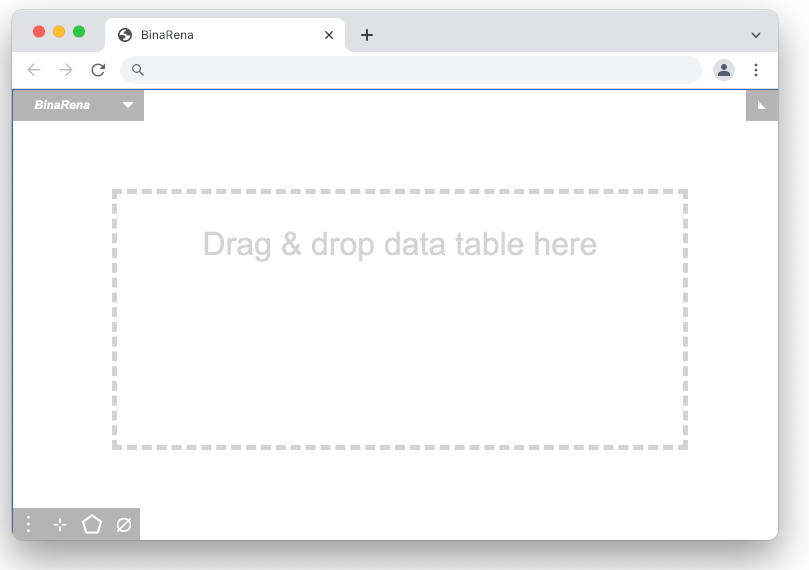
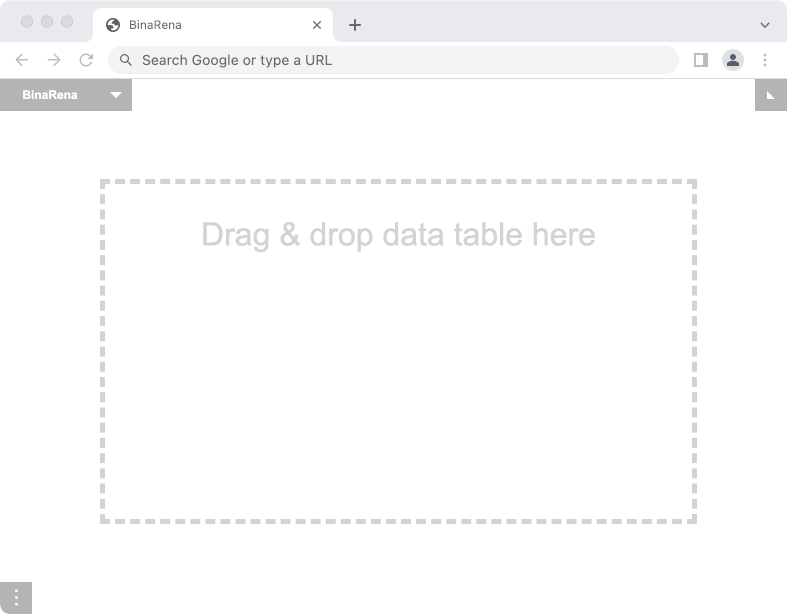
worked on documentation

Changed region(s): [[0.0, 0.0, 1.0, 1.0]]

diff --git a/README.md b/README.md
@@ -16,11 +16,11 @@ Check out this [live demo](https://qiyunlab.github.io/binarena/demo.html). It is
 
 ## Contents
 
-- [Installation](#noinstallation) | [main interface](#main-interface) | [system requirements](#system-requirements) | [mouse and keyboard shortcuts](#mouse-and-keyboard-shortcuts)
-- [Input files](#input-files): [data table](#data-table) | [table view](#table-view) | [special columns](#special-columns) | [additional data](#additional-data)
-- [Display items](#display-items): [legends and data scaling](#legends-and-data-scaling) | [data transformation](#data-transformation) | [color coding](#color-coding) | [image export](#image-export)
-- [Contig selection](#contig-selection) | [masking](#contig-masking) | [highlighting](#contig-highlighting) | [summary](#contig-summary) | [search](#contig-searching) | [mini plot](#mini-plot)
-- [Binning plan](#binning-plan) | [table of bins](#table-of-bins) | [from selection to bin](#from-selection-to-bin)
+- [Installation](#noinstallation) | [main interface](#main-interface) | [widget buttons](#widget-buttons) | [mouse and keyboard shortcuts](#mouse-and-keyboard-shortcuts)
+- [**Data**](#input-data): [data table](#data-table) | [data types](#data-types) | [special columns](#special-columns) | [table view](#table-view)
+- [**Plot**](#display-items): [auto-assign](#automatic-assignment) | [legends & scaling](#legends-and-data-scaling) | [transformation](#data-transformation) | [coloring](#color-coding) | [image export](#image-export)
+- **Contig**: [selection](#contig-selection) | [masking](#contig-masking) | [highlighting](#contig-highlighting) | [summary](#contig-summary) | [search](#contig-searching) | [mini plot](#mini-plot)
+- **Binning**: [Binning plan](#binning-plan) | [table of bins](#table-of-bins) | [from selection to bin](#from-selection-to-bin)
 - [Binning confidence evaluation](#binning-confidence-evaluation) | [binning plan comparison](#binning-plan-comparison)
 - [FAQ](#faq) | [contact](#contact)
 
@@ -38,18 +38,25 @@ The main interface of BinaRena is an interactive scatter plot. It focuses on the
 
 Here is the fully expanded main interface of BinaRena.
 
-<img src="docs/img/main.png" width="720">
+<img src="docs/img/main.png" width="840">
 
 Here is the default interface when the program starts.
 
 <img src="docs/img/blank.png" width="405">
 
 
-## System requirements
+## Widget buttons
 
-BinaRena runs in most modern web browsers, including **Chrome**, **Firefox**, **Edge**, and **Safari** (see screenshots below). A typical laptop is sufficient for running BinaRena.
+A few buttons in the bottom left corner trigger operations on the data:
 
-<img src="docs/img/browsers.png" width="720">
+<img src="docs/img/widgets.png" width="192">
+
+- <span>&vellip;</span> (3 dots): Settings window.
+- <span>&#10047;</span> (flower): Export image (PNG or SVG).
+- <span>&#11040;</span> (polygon): Select contigs with a polygon.
+- <span>&empty;</span> (empty set): Mask (hide) selected contigs.
+- <span>&#9673;</span> (solid circle): Highlight selected contigs.
+- <span>&#8889;</span> (cross): Focus on selected contigs.
 
 
 ## Mouse and keyboard shortcuts
@@ -70,63 +77,54 @@ The BinaRena interface is like a [**digital map**](https://www.google.com/maps) 
 - Press `0` to reset the plot view.
 
 
-## Input files
-
-BinaRena operates on one dataset at a time. A dataset is an entire **metagenomic assembly**, i.e., a collection of **contigs** (note: this document does not differentiate contigs, scaffolds, or long reads). The information being handled is the properties of individual contigs.
-
-To load a dataset, simply **drag and drop** the file into the blank program window.
-
+## Input data
 
 ### Data table
 
-The most typical input file format is a **data table** (tab-delimited file, or [TSV](https://en.wikipedia.org/wiki/Tab-separated_values)) that stores properties of contigs (scaffolds) in an assembly. Here is an [example](examples/input.tsv).
+BinaRena works on an entire **metagenomic assembly**, i.e., a collection of **contigs** (note: this document does not differentiate contigs, scaffolds, or long reads). The information being handled is the properties of individual contigs.
 
-<img src="docs/img/excel.png" width="597">
+The input file format is a **data table** (tab-delimited file, or [TSV](https://en.wikipedia.org/wiki/Tab-separated_values)) that stores properties of contigs (scaffolds) in an assembly. Here is an [example](examples/input.tsv).
 
-Each row represents one contig. The first column must be unique contig identifiers. The remaining columns are arbitrary properties (such as length, coverage, GC%, taxonomy, etc.). These fields may be in any of the following four types:
+<img src="docs/img/excel.png" width="796">
 
-- **number**(`n`), **category**(`c`), **feature**(`f`), **description**(`d`)
+Each row represents one contig. The first column must be unique contig identifiers. The remaining columns are arbitrary properties. Empty cells will be treated as **missing** values.
 
-The program will guess column type based on the data. To be safer, you may append a type code to a column name following a pipe (`|`), such as "`genes|n`" and "`plasmid|c`".
+To **load** a dataset, simply **drag and drop** the data file into the blank program window.
 
-In a **feature**-type column, a cell can have multiple comma-separated features, such as "`Firmicutes,Proteobacteria,Cyanobacteria`".
+To **append** additional data to an opened dataset, just drag and drop more files. They will be filtered to match the current contig IDs (first column).
 
-One may assign a **weight** to each category or feature, using a numeric suffix following a colon (`:`), such as "`Ruminococcus:80`", and "`rpoB:1,dnaK:2,16S:5`".
-This weight can represent quantity, proportion, confidence, etc.
+To work on **multiple** datasets simultaneously, just open multiple browser tabs.
 
-Empty cells will be treated as **missing** values.
+### Data types
 
-### Table view
+Once a data table is loaded, BinaRena will prompt you to specify the data types of individual fields (columns):
 
-One can click `Show data` from the context menu to open a window to browse the current dataset. Alternatively, when one or more bins are selected, one can click the <span style="background-color: lightgrey">&#9707;</span> button in the bin table toolbar to browse the data of contigs **within** these bins. Click `Export` to save the data table as a TSV file.
+<img src="docs/img/input.png" width="360">
 
-<img src="docs/img/table.png" width="576">
+Each field may be any of the following four types:
+
+- **numeric**(`n`): Such as length, coverage, GC%, etc. Can be either integers or floating point numbers.
+- **categorical**(`c`): Such as taxonomic groups, external binning plans, etc.
+- **feature set**(`f`): Features associated with each contig, such as genes. Should be written as comma-separated identifiers, such as "`dnaK,rpoB,ftsZ`".
+- **descriptive**(`d`): Arbitrary free text, such as comments.
+
+BinaRena will "guess" the most appropriate data type of each field based on the data. But you should still review, and correct any place where the program isn't smart enough.
+
+One way to avoid manual review every time you open the same dataset, is to append a type code to a field name following a pipe (`|`), such as "`genes|n`" and "`plasmid|c`", in the raw TSV file.
 
 ### Special columns
 
-When a data table is loaded, BinaRena attempts to "guess" the meaning of data columns by their name and type, and displays the most relevant information. Specifically, the following fields and keyword patterns are recognized:
+Two properties are treated specially in BinaRena: **length** (bp) and **coverage** (x) of contigs, as they will be used to calculate bin abundance and to normalize bin summary metrics. They can be specified under the "Sp" column of the data import window ("Len" and  "Cov"). BinaRena attempts to "guess" these two columns from the numeric columns based on their names (see [how](#automatic-assignment)), but you still need to review, and correct if needed.
 
-- **Length (bp)**: `length`, `size`, `len`, `bp`, etc.
-- **Coverage (x)**: `coverage`, `depth`, `cov`, etc.
-- **GC content (%)**: `gc`, `g+c`, `gc%`, `gc-content`, etc.
-- **_X_- (and _y_-axes)** (if available): `x`, `xaxis`, `x1`, `axis1`, `dim1`, `pc1`, `tsne1`, `umap1`, etc.
+It is okay not to have either or both of these two columns in your dataset.
 
-The matching process is case-insensitive. Suffixes after common delimiters (" ", "/", "_", ".") are stripped. For examples, `Length (bp)` and `size_of_scaffold` will be recognized as **length**.
+You can change these assignments later in the "Settings" window. This is useful when you explore a co-assembly with different coverage profiles of individual samples.
 
-It isn't a problem if the program misses a special column (which is very possible). One can always manually choose the most relevant [display items](#display-items).
+### Table view
 
-### Additional data
+During the analysis, one can click `Show data` from the context menu to open a window to browse the current dataset. Alternatively, when one or more bins are selected, one can click the <span>&#9707;</span> button in the bin table toolbar to browse the data of contigs **within** these bins. Click `Export` to save the data table as a TSV file.
 
-When a dataset has been opened, one may append additional data files to it simply by **dragging and dropping** them into the interface. They will be filter to match the current contig IDs (first column) and appended to the right of the current data table.
-
-
-## Special files
-
-BinaRena supports several special file types that are frequently generated in typical metagenomic data analysis workflows.
-
-### Assembly files
-
-An assembly file is a [FASTA](https://en.wikipedia.org/wiki/FASTA_format) format file containing multiple contig sequences. BinaRena can read DNA sequences and calculate **length** and **GC content** of each contig. If this file is generated by [SPAdes](https://cab.spbu.ru/software/spades/) or [MEGAHIT](https://github.com/voutcn/megahit), BinaRena can recognize **coverage** from sequence titles.
+<img src="docs/img/table.png" width="768">
 
 
 ## Display items
@@ -136,6 +134,27 @@ BinaRena is an interactive scatter plot of contigs, with five display items:
 - **x-axis**, **y-axis**, **size** (radius of contig), **opacity** (alpha value), and **color**.
 
 Each display item can be changed and tweaked in the **display panel**. When the user moves the mouse of an item, two button will emerge, one letting the user select a data transformation method, and the other letting the user display a legend.
+
+### Automatic assignment
+
+When a dataset is loaded, BinaRena attempts to make the best guess of appropriate display items based on the names and types of individual fields. Specifically, it will look for these keywords in the column names:
+
+- **_X_-axis** (numeric): `x`, `xaxis`, `x1`, `axis1`, `dim1`, `pc1`, `tsne1`, `umap1`, etc.
+- **_Y_-axis** (numeric): `y`, `yaxis`, `x2`, `axis2`, `dim2`, `pc2`, `tsne2`, `umap2`, etc.
+- **Length (bp)** (numeric): `length`, `size`, `len`, `bp`, etc.
+- **Coverage (x)** (numeric): `coverage`, `depth`, `cov`, etc.
+- **GC content (%)** (numeric): `gc`, `g+c`, `gc%`, `gc-content`, etc.
+- **Taxonomy** (categorical): `phylum`, `class`, `order`, `family`, `genus`, etc.
+
+The matching process is case-insensitive. Suffixes after common delimiters (" ", "/", "_", ".") are stripped. For examples, `Length (bp)` and `size_of_scaffold` will be recognized as **length**.
+
+If all columns are found, BinaRena will render _x_- and _y_-axes in linear scale, length as marker size (radius) in cube root scale (because a sphere's volume is proportional to the cube of radius), coverage as marker opacity in square root scale, and highest taxonomic group as marker color.
+
+If _x_- and/or _y_-axes are not found, the program will render a length by coverage plot.
+
+If none is found, the program will take the first two numeric columns as _x_- and/or _y_-axes.
+
+It's very likely that BinaRena is not smart enough to hit the desired view. You will need to tweak the display items as needed.
 
 ### Legends and data scaling
 
@@ -173,55 +192,57 @@ For **categorical** data, BinaRena automatically identifies and colors the **mos
 
 The plot rendered by BinaRena can be exported as an image file. There are two options for doing this:
 
-1. Press `P` or click the `&#8889;` button to take a screenshot of the current view and save as a [PNG](https://en.wikipedia.org/wiki/Scalable_Vector_Graphics) (portable network graphics) file.
+1. Press `P` or click the <span>&#10047;</span> (flower) button to take a screenshot of the current view and save as a [PNG](https://en.wikipedia.org/wiki/Scalable_Vector_Graphics) (portable network graphics) file.
 
-2. Mouse over the `&#8889;` button and select "SVG" in the expanded menu. This will generate an 
+2. Mouse over the <span>&#10047;</span> button and select "SVG" in the expanded menu. This will generate an 
 [SVG](https://en.wikipedia.org/wiki/Scalable_Vector_Graphics) (scalable vector graphics) file. It is a vector image therefore it can be further edited in vector image editing programs, such as [Inkscape](https://inkscape.org/). Compared with PNG which is a bare screenshot, the SVG image has _x_- and _y_-axes ticked, labeled, and aligned to "nice" tick numbers, and legends (size, opacity and/or color) displayed in the plot. It is suitable for further processing to generate publication-quality figures.
 
 <img src="docs/img/svg.png" width="553">
+
+
 
 ## Contig selection
 
 In the interactive scatter plot, one can simple click circles (**contigs**) to select them. Hold `Shift` and click to select multiple. Click selected ones to unselect them.
 
-A more efficient may is to press `Enter` or click the <span style="background-color: lightgrey">&#11040;</span> button in the corner to enter the **polygon** selection mode.
+A more efficient may is to press `Enter` or click the <span>&#11040;</span> button in the corner to enter the **polygon** selection mode.
 
-<img src="docs/img/widgets.png" width="160">
+<img src="docs/img/widgets.png" width="192">
 
 Then one can click on the plot to draw a polygon to contain contigs of interest. When done, press `Enter` again and these contigs will be selected.
 
-<img src="docs/img/polyogn.png" width="304">
+<img src="docs/img/polygon.png" width="304">
 
 Hold `Shift` when finishing selection will add the contigs to the current selection.
 
 
 ## Contig masking
 
-One can press the `Delete` key or click the <span style="background-color: lightgrey">&empty;</span> button in the corner to **mask** currently selected contigs. These contigs will disappear from the plot. They will also be excluded from subsequent operations (e.g., they cannot be selected, nor can they influence calculation of metrics). This function is useful for cloaking unwanted contigs during binning.
+One can press the `Delete` key or click the <span>&empty;</span> button in the corner to **mask** currently selected contigs. These contigs will disappear from the plot. They will also be excluded from subsequent operations (e.g., they cannot be selected, nor can they influence calculation of metrics). This function is useful for cloaking unwanted contigs during binning.
 
-<img src="docs/img/mask.png" width="279">
+<img src="docs/img/mask.png" width="204">
 
-The masked contigs are not deleted from the dataset. They can be released back to the view by clicking the <span style="background-color: lightgrey">&times;</span> button.
+The masked contigs are not deleted from the dataset. They can be released back to the view by clicking the <span>&times;</span> button.
 
-One can also press `Z` or click the <span style="background-color: lightgrey">&#8617;</span> button to **undo** previous masking operations one by one. The program allows a total of 50 regrets.
+One can also press `Z` or click the <span>&#8617;</span> button to **undo** previous masking operations one by one. The program allows a total of 50 regrets.
 
-- Note that masked contigs will not be immediated deleted from bins. One can click the <span style="background-color: lightgrey">&empty;</span> button in the bin table toolbar to remove masked contigs from all bins.
+- Note that masked contigs will not be immediated deleted from bins. One can click the <span>&empty;</span> button in the bin table toolbar to remove masked contigs from all bins.
 
 
 ## Contig highlighting
 
-One can press the `L` key or click the <span style="background-color: lightgrey">&#9673;</span> button in the corner to **highlight** currently selected contigs. Moreover, one may select one of multiple highlight colors from the menu.
+One can press the `L` key or click the <span>&#9673;</span> button in the corner to **highlight** currently selected contigs. Moreover, one may select one of multiple highlight colors from the menu.
 
 <img src="docs/img/highlight.png" width="350">
 
-The highlight will stay with the contigs no matter how the layout and display items change, until the user click the <span style="background-color: lightgrey">&times;</span> button next to each color to release them.
+The highlight will stay with the contigs no matter how the layout and display items change, until the user click the <span>&times;</span> button next to each color to release them.
 
 Highlighting will not affect binning, search, calculation and operations. It serves as a visual annotation of contigs to make them noticeable to the user.
 
 
 ## Contig focusing
 
-Press the `F` key or click the <span style="background-color: lightgrey">&#9673;</span> button in the corner to **focus** on selected contigs. That is, all but these contigs will be hidden, allowing you to concentrate on them. When you complete working on these contigs, press `F` again and bring back all other contigs.
+Press the `F` key or click the <span>&#8889;</span> (cross) button in the corner to **focus** on selected contigs. That is, all but these contigs will be hidden, allowing you to concentrate on them. When you complete working on these contigs, press `F` again and bring back all other contigs.
 
 
 ## Contig summary
@@ -230,18 +251,18 @@ BinaRena displays a summary of properties of the select contigs in real time to 
 
 <img src="docs/img/info.png" width="330">
 
-When multiple contigs are selected, the displayed value of **numeric** fields is calculated using either **mean** (<span style="background-color: lightgrey; text-decoration: overline;"><i>x</i></span>) or **sum** (<span style="background-color: lightgrey">&Sigma;<i>x</i></span>) of the contigs, optionally **weighted** by another variable. BinaRena attempts to "guess" the most relevant metric for each column. For examples, "length" should be the sum of lengths of all contigs, whereas "coverage" should be the average of coverages of the contigs, weighted by contig length. One can mouse hover the displayed value to see how it is exactly calculated, and tweak the metrics (in case BinaRena didn't guess right).
+When multiple contigs are selected, the displayed value of **numeric** fields is calculated using either **mean** (<span style="background-color: lightgrey; text-decoration: overline;"><i>x</i></span>) or **sum** (<span>&Sigma;<i>x</i></span>) of the contigs, optionally **weighted** by another variable. BinaRena attempts to "guess" the most relevant metric for each column. For examples, "length" should be the sum of lengths of all contigs, whereas "coverage" should be the average of coverages of the contigs, weighted by contig length. One can mouse hover the displayed value to see how it is exactly calculated, and tweak the metrics (in case BinaRena didn't guess right).
 
 For **categorical** columns, the displayed category is the **majority-rule** category, if there are multiple options (i.e., the selected contigs are a mixture), determined by weighting against the contig length (one can tweak this). The relative frequency of the main category is displayed in the parentheses. If no category is over half, the row will be displayed as "ambiguous", while the most frequent category can be found in the tooltip during mouse hovering.
 
-One may click the <span style="background-color: lightgrey">&#9684;</span> button in each row to display a histogram of the distribution of this variable in a [mini plot](#mini-plot).
+One may click the <span>&#9684;</span> button in each row to display a histogram of the distribution of this variable in a [mini plot](#mini-plot).
 
 
 ## Contig searching
 
 The **Search** panel offers functions to search the assembly for contigs that match given criteria.
 
-For numeric fields, enter (or leave empty) maximum and minimum thresholds. Click the boundaries to toggle between inclusion (`()`) and exclusion (`[]`).
+For numeric fields, enter (or leave empty) maximum and minimum thresholds. Click the boundaries to toggle between exclusion (`()`) and inclusion (`[]`).
 
 <img src="docs/img/search_num.png" width="270">
 
@@ -269,7 +290,7 @@ One may create a binning plan from _de novo_ or load an existing one from a **ca
 
 <img src="docs/img/plan.png" width="338">
 
-When a binning plan is modified (added/removed bins, added/removed contigs to/from bins, renamed bins, entered a new plan name, etc.), a <span style="background-color: lightgrey">Save</span> button will show up. Click it to save the **binning plan** as a categorical field.
+When a binning plan is modified (added/removed bins, added/removed contigs to/from bins, renamed bins, entered a new plan name, etc.), a <span>Save</span> button will show up. Click it to save the **binning plan** as a categorical field.
 
 Alternatively, click the <span style="background-color: lightgrey;">&rarrb;</span> button in the toolbar to export the binning plan to a text file. The format will be a mapping of bin names to member contig IDs.
 
@@ -300,17 +321,17 @@ These functions can also be found in the toolbar next to the summary table.
 
 BinaRena can evaluate the **confidence** of binning by calculating the [**silhouette coefficient**](https://en.wikipedia.org/wiki/Silhouette_(clustering)). Specifically, a silhouette coefficient measures how similar a contig is to other contigs in the same bin, as in contrast to contigs in other bins. It ranges from -1 (worst) to 1 (best).
 
-One may click the <span style="background-color: lightgrey">&#9739;</span> button in the toolbar next to the binning plan to open the "silhouette coefficient" window. It allows the user to select variables to be included in the calculation.
+One may click the <span>&#9739;</span> button in the toolbar next to the binning plan to open the "silhouette coefficient" window. It allows the user to select variables to be included in the calculation.
 
 - Note: Only select variables that are presumably **homogeneous** in each bin (e.g., GC%, coverage, _k_-mer frequency). Don't select those that aren't (e.g., length of contig).
 
 Then click the "calculate" button to start calculation. When done, the mean silhouette coefficient of each bin and all bins will be displayed in a table.
 
-<img src="docs/img/silhouette.png" width="600">
+<img src="docs/img/silhouette.png" width="450">
 
 Before pressing "done", one may check "save result to field" to save the calculated silhouette coefficient to a categorical field. BinaRena will automatically color the contigs using these values, from which one can immediately see which bins are of high overall confidences and which contigs are confidently belonging to their bins. This can guide the subsequent binning efforts.
 
-<img src="docs/img/silh_color.png" width="880">
+<img src="docs/img/silh_color.png" width="660">
 
 One may also check "export result to file" to save the results (contig IDs, bin assignments and silhouette coefficients) to a TSV file.
 
@@ -321,16 +342,10 @@ One may also check "export result to file" to save the results (contig IDs, bin 
 
 BinaRena compares two binning plans by calculating the [**adjusted Rand index**](https://en.wikipedia.org/wiki/Rand_index) (ARI), which measures the **consistency** between two grouping scenarios of the same dataset. Higher is better. Two identical plans have ARI = 1. Two random plans will have an ARI close to 0.
 
-One may click the <span style="background-color: lightgrey">&harr;</span> button in the toolbar next to the binning plan, then select a categorical field (another binning plan) to perform this calculation. It is fast. The result will be displayed in a floating message box.
+One may click the <span>&harr;</span> button in the toolbar next to the binning plan, then select a categorical field (another binning plan) to perform this calculation. It is fast. The result will be displayed in a floating message box.
 
 
 ## FAQ
-
-**Does BinaRena expose my data to a remote server?**
-
-The standalone BinaRena program is a client-end webpage that runs in your browser. Theoretically and technically, it cannot communicate with a web server. There is no risk with regard to the confidentiality of your data.
-
-The live demo hosted by [GitHub Pages](https://pages.github.com/) can communicate with the GitHub repository, and the only thing it does is to [retrieve](demo.html) the sample dataset from the repository directory. It does not perform any other communication.
 
 **Is BinaRena really dependency-free?**
 
@@ -338,13 +353,39 @@ That is accurate. The program uses zero third-party libraries, not even Node.js,
 
 In addition, we use [Jasmine](https://jasmine.github.io/) for [unit testing](https://en.wikipedia.org/wiki/Unit_testing) core algorithms to ensure their soundness. Jasmine is bundled in the package, but it won't run when you use BinaRena.
 
+**Does BinaRena expose my data to a remote server?**
+
+The standalone BinaRena program is a client-end webpage that runs in your browser. Theoretically and technically, it cannot communicate with a web server. There is no risk with regard to the confidentiality of your data.
+
+The live demo hosted by [GitHub Pages](https://pages.github.com/) can communicate with the GitHub repository, and the only thing it does is to [retrieve](demo.html) the sample dataset from the repository directory. It does not perform any other communication.
+
+### Hardware
+
+**What system configuration does BinaRena require?**
+
+A typical laptop is sufficient for running BinaRena.
+
 **Does BinaRena work on a touchscreen?**
 
 Yes! You can use your finger(s) to move and zoom the plot, as well as to select contigs, to click buttons, etc.
 
+### Software
+
+**Which operating systems support BinaRena?**
+
+Any operating system that can run a web browser supports BinaRena. Windows, macOS, Linux, Android,... you name it.
+
+**Which web browsers support BinaRena?**
+
+BinaRena runs in most modern web browsers, including **Chrome**, **Firefox**, **Edge**, and **Safari** (see screenshots below).
+
+<img src="docs/img/browsers.png" width="720">
+
 **Do old browsers support BinaRena?**
 
 BinaRena is written in JavaScript, using modern language standards including [ES6](https://www.w3schools.com/js/js_es6.asp) and above. Modern browsers shouldn't have problems as they normally auto-update to meet the latest standards. However, very outdated browsers such as Internet Explorer may not support BinaRena.
+
+### Graphics
 
 **Which browser works the best for BinaRena?**
 
@@ -352,13 +393,19 @@ They all work very well. However some may bring you moderately smoother graphics
 
 For high responsiveness, BinaRena automatically caches images around the current viewport, so that it could immediately bring you to the destination when you move or zoom. BinaRena uses either of two mechanisms to achieve this: For browsers that support [OffscreenCanvas](https://developer.mozilla.org/en-US/docs/Web/API/OffscreenCanvas), BinaRena uses this technology to cache images in a separate thread so that it won't block the UI. For others, BinaRena scavenges [idle time](https://developer.mozilla.org/en-US/docs/Web/API/Window/requestIdleCallback) in the main thread to cache images, which could lag the graphics a little bit.
 
-So which browsers support this technology? As of 2022, Chrome does, out-of-the-box, therefore you get the highest FPS when you run BinaRena in Chrome. Firefox has support but you need to manually turn it on, by enabling `gfx.offscreencanvas.enabled` in `about:config` (see [details](https://developer.mozilla.org/en-US/docs/Web/API/OffscreenCanvas)). If you are too scared of this setting, just leave as is.
+So which browsers support this technology? As of 2022, Chrome does, out-of-the-box, therefore you get the highest FPS when you run BinaRena in Chrome. So does Edge. Firefox has support but you need to manually turn it on, by enabling `gfx.offscreencanvas.enabled` in `about:config` (see [details](https://developer.mozilla.org/en-US/docs/Web/API/OffscreenCanvas)). If you are too scared of this setting, just leave as is. Safari does not support this.
 
 If this causes any problem, you may comment out the code under "check offscreen canvas support" in [static/js/main.js](static/js/main.js) to disable OffscreenCanvas (even if the browser supports it).
 
 **BinaRena doesn't display graphics in my browser?**
 
 We haven't experienced this scenario in any modern browser. But just in case your browser is highly customized or restricted... See if the previous answer helps you. If not, you will need to install a clean browser.
+
+**BinaRena is sometimes smooth but sometimes clumsy?**
+
+BinaRena can become clumsy when the dataset is large and when you are making frequent operations on the graph, such that the background caching process (see above) hasn't completed. This won't break anything. Wait for a few seconds and you will find it smooth.
+
+### Plotting
 
 **How to precisely control the size of the plot?**
 
@@ -383,6 +430,8 @@ The data points are covered, but they are not missing. One can open the SVG file
 **Can I customize the appearance of the exported SVG image?**
 
 The GUI doesn't provide much control. However, pro users can look into ([static/js/svg.js](static/js/svg.js)). On top of the function `renderSVG` there are multiple customizable parameters.
+
+### Calculation
 
 **How does BinaRena perform [data ranking](https://en.wikipedia.org/wiki/Ranking#Ranking_in_statistics)?**
 
